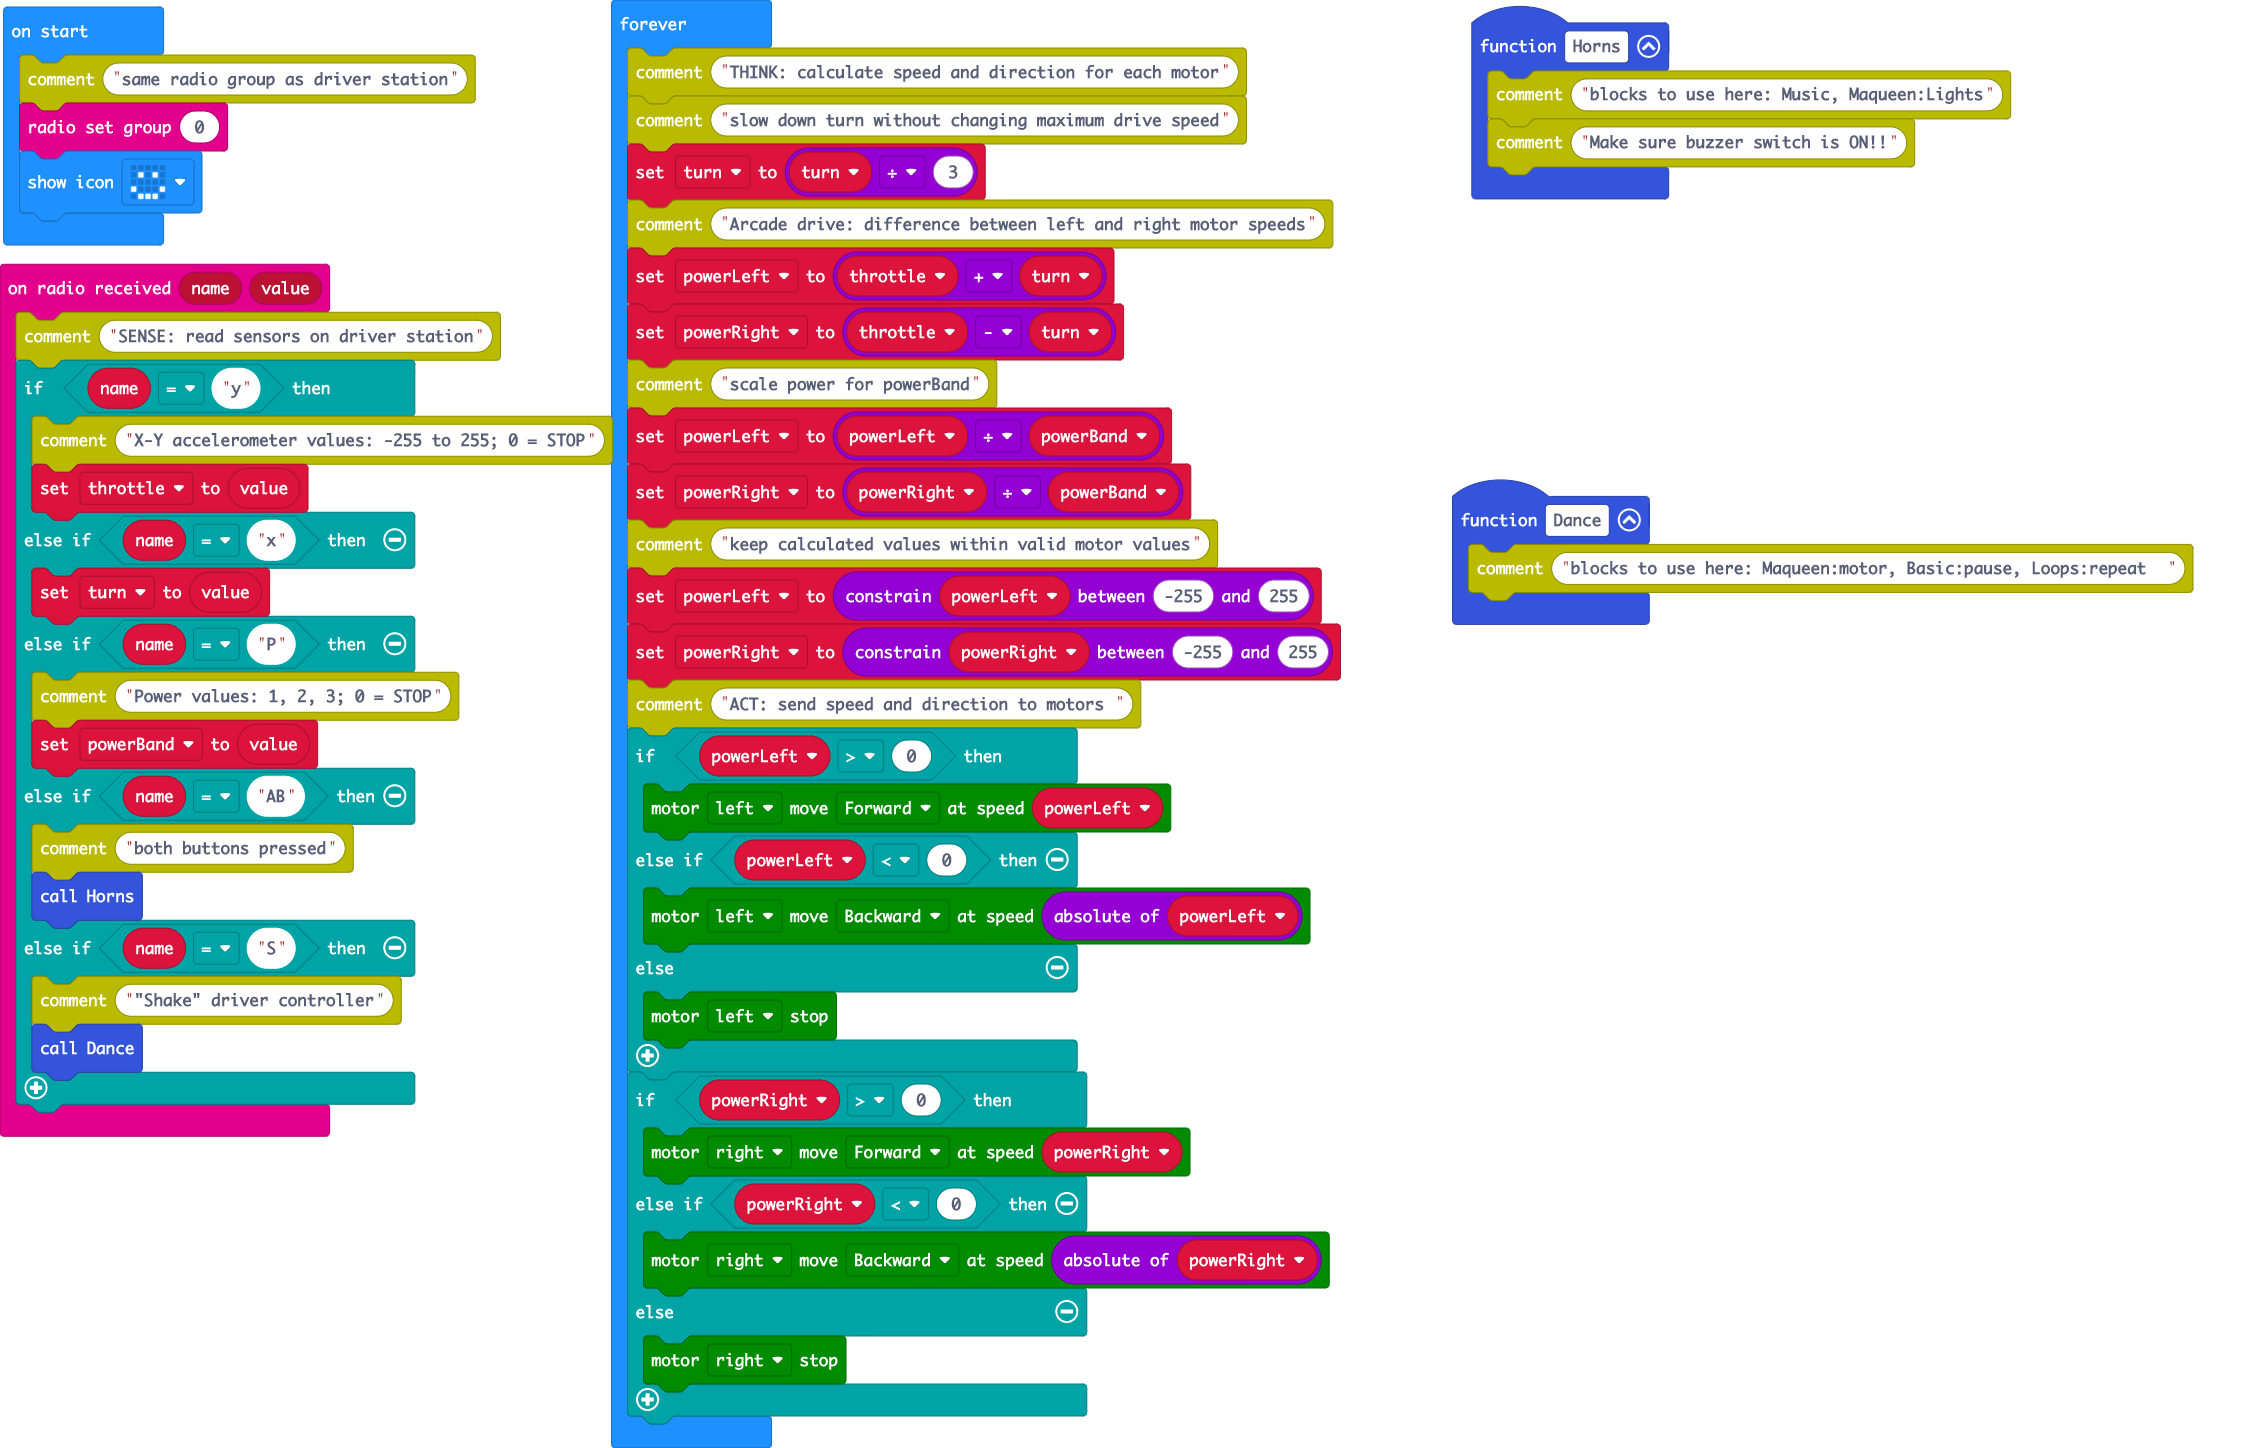
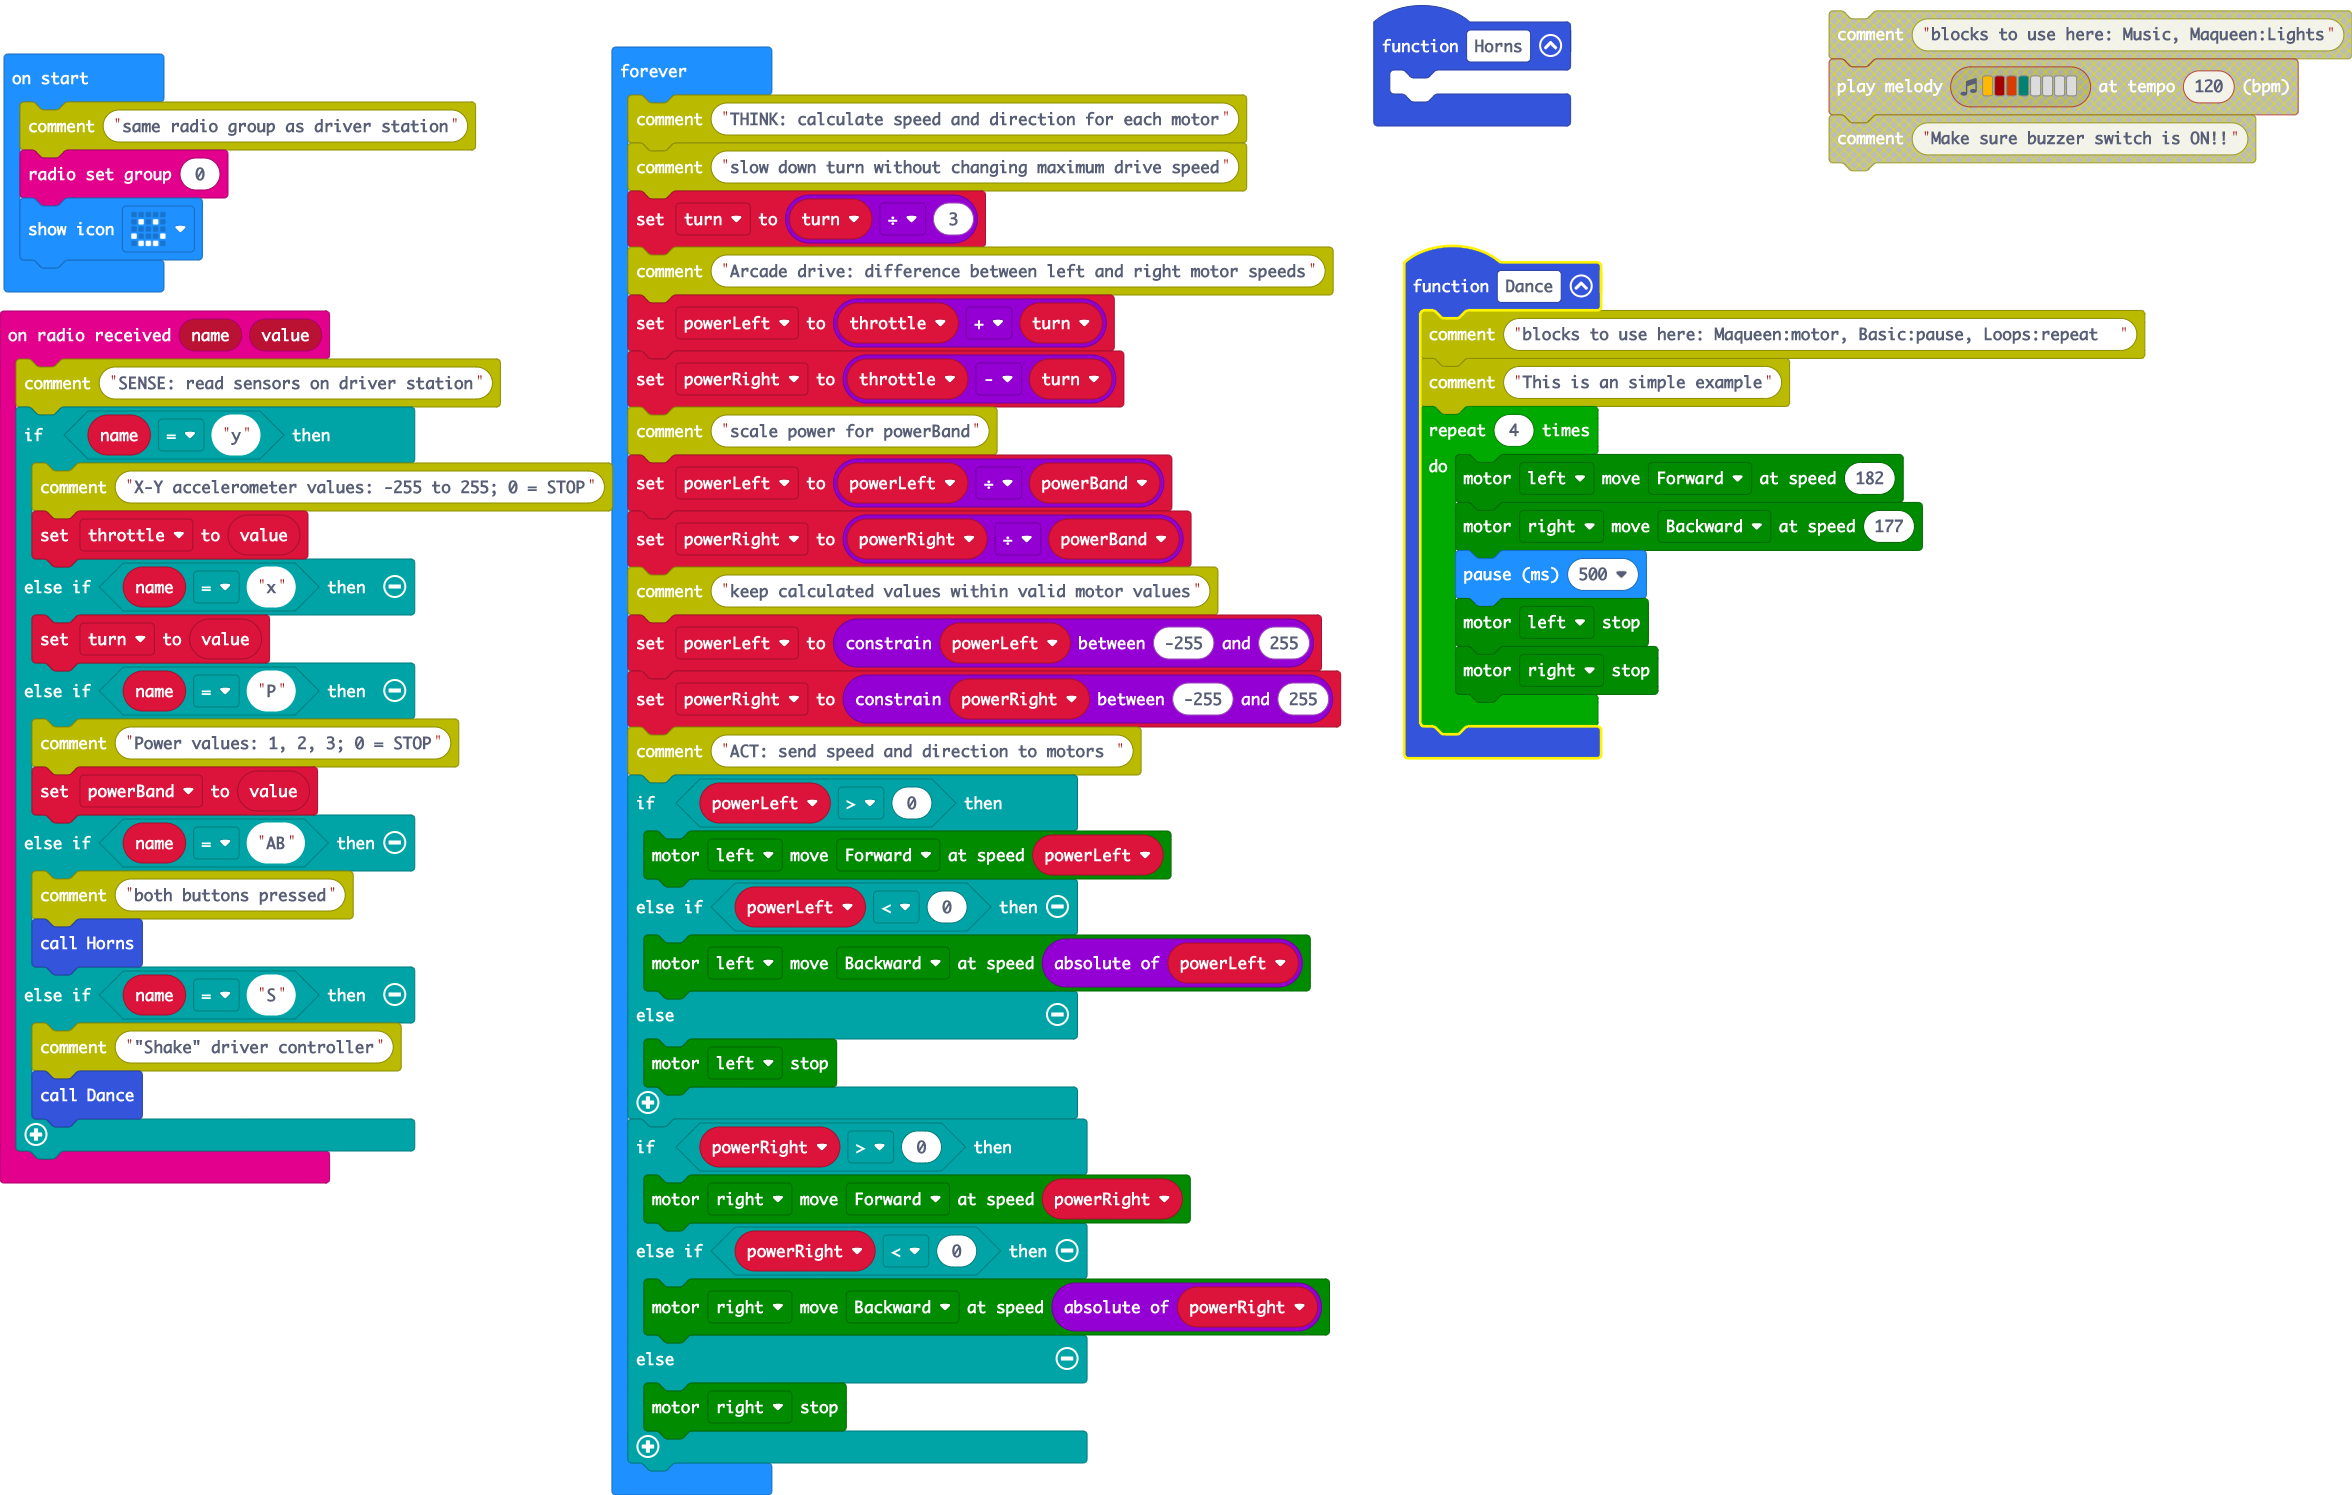
Update main.blocks, main.ts

diff --git a/main.ts b/main.ts
@@ -1,9 +1,16 @@
 function Dance () {
     comment.comment("blocks to use here: Maqueen:motor, Basic:pause, Loops:repeat  ")
+    comment.comment("This is an simple example")
+    for (let index = 0; index < 4; index++) {
+        maqueen.motorRun(maqueen.Motors.M1, maqueen.Dir.CW, 182)
+        maqueen.motorRun(maqueen.Motors.M2, maqueen.Dir.CCW, 177)
+        basic.pause(500)
+        maqueen.motorStop(maqueen.Motors.M1)
+        maqueen.motorStop(maqueen.Motors.M2)
+    }
 }
 function Horns () {
-    comment.comment("blocks to use here: Music, Maqueen:Lights")
-    comment.comment("Make sure buzzer switch is ON!!")
+	
 }
 radio.onReceivedValue(function (name, value) {
     comment.comment("SENSE: read sensors on driver station")
